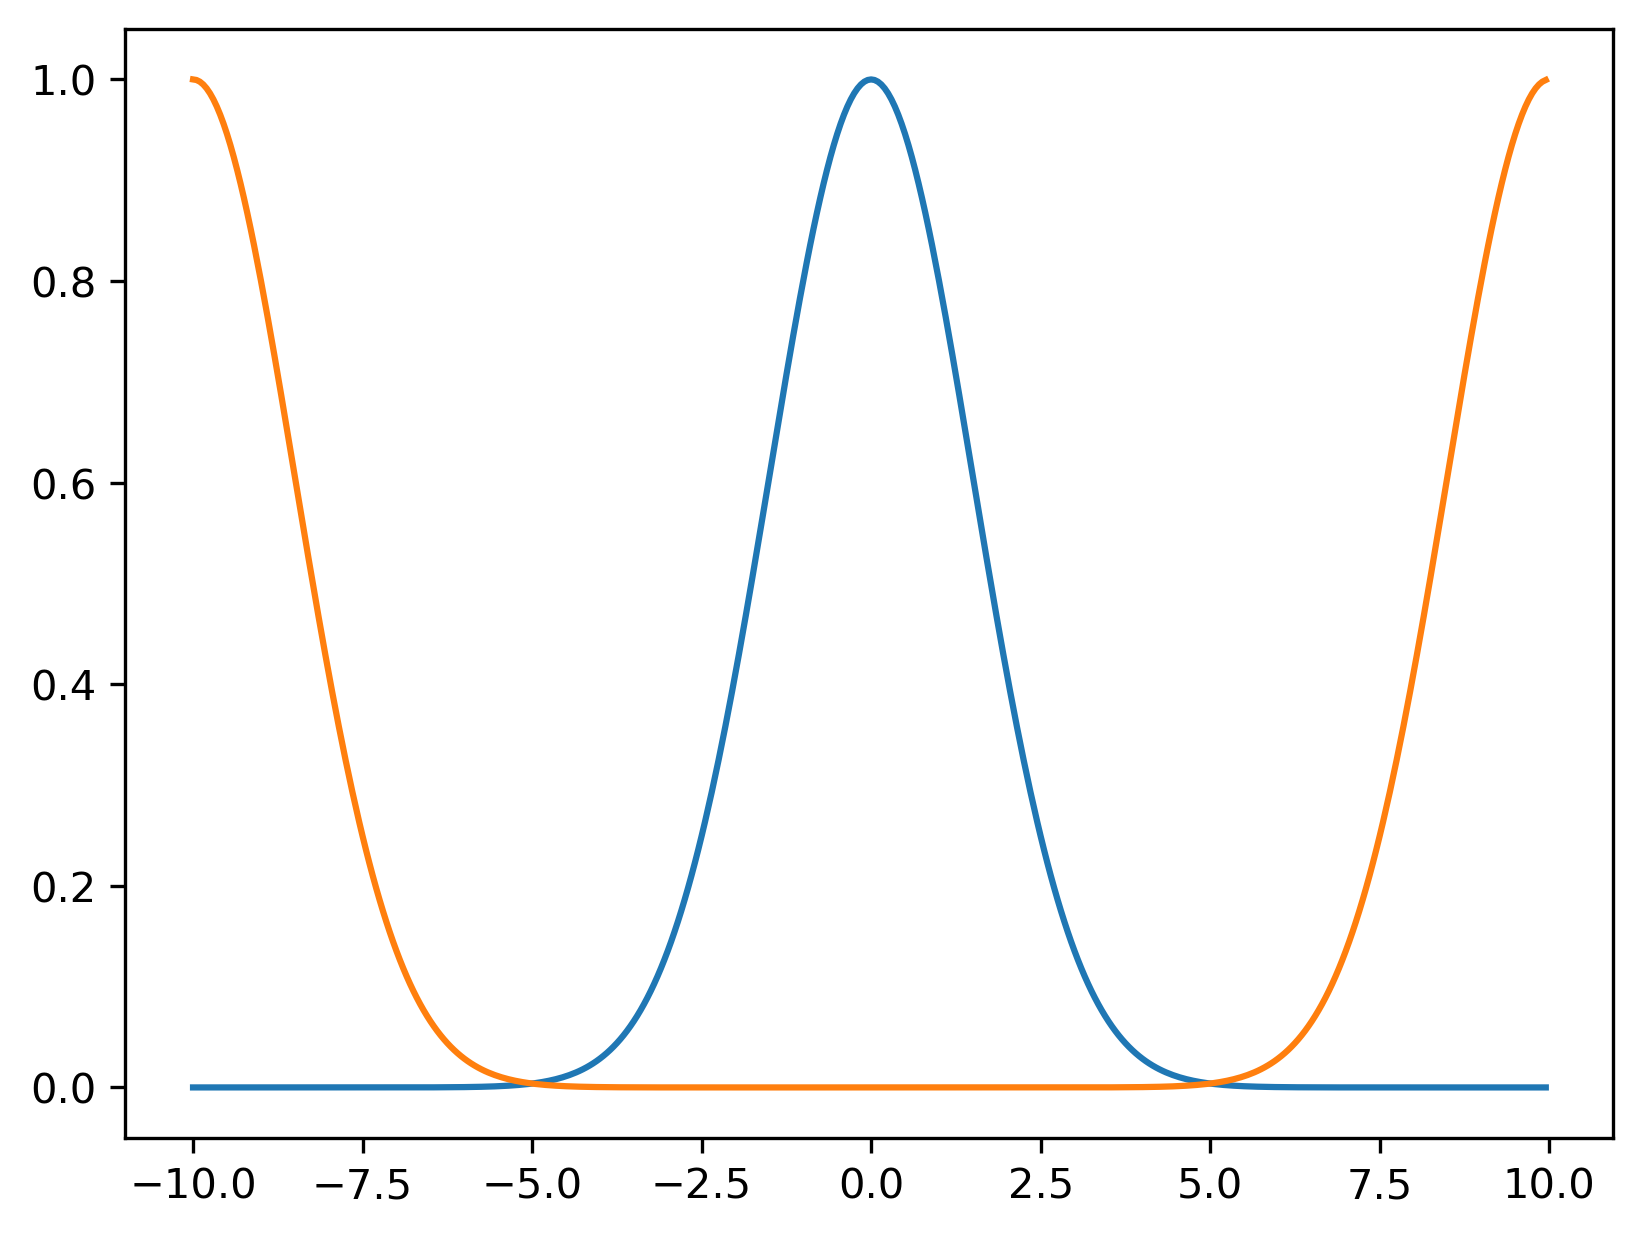
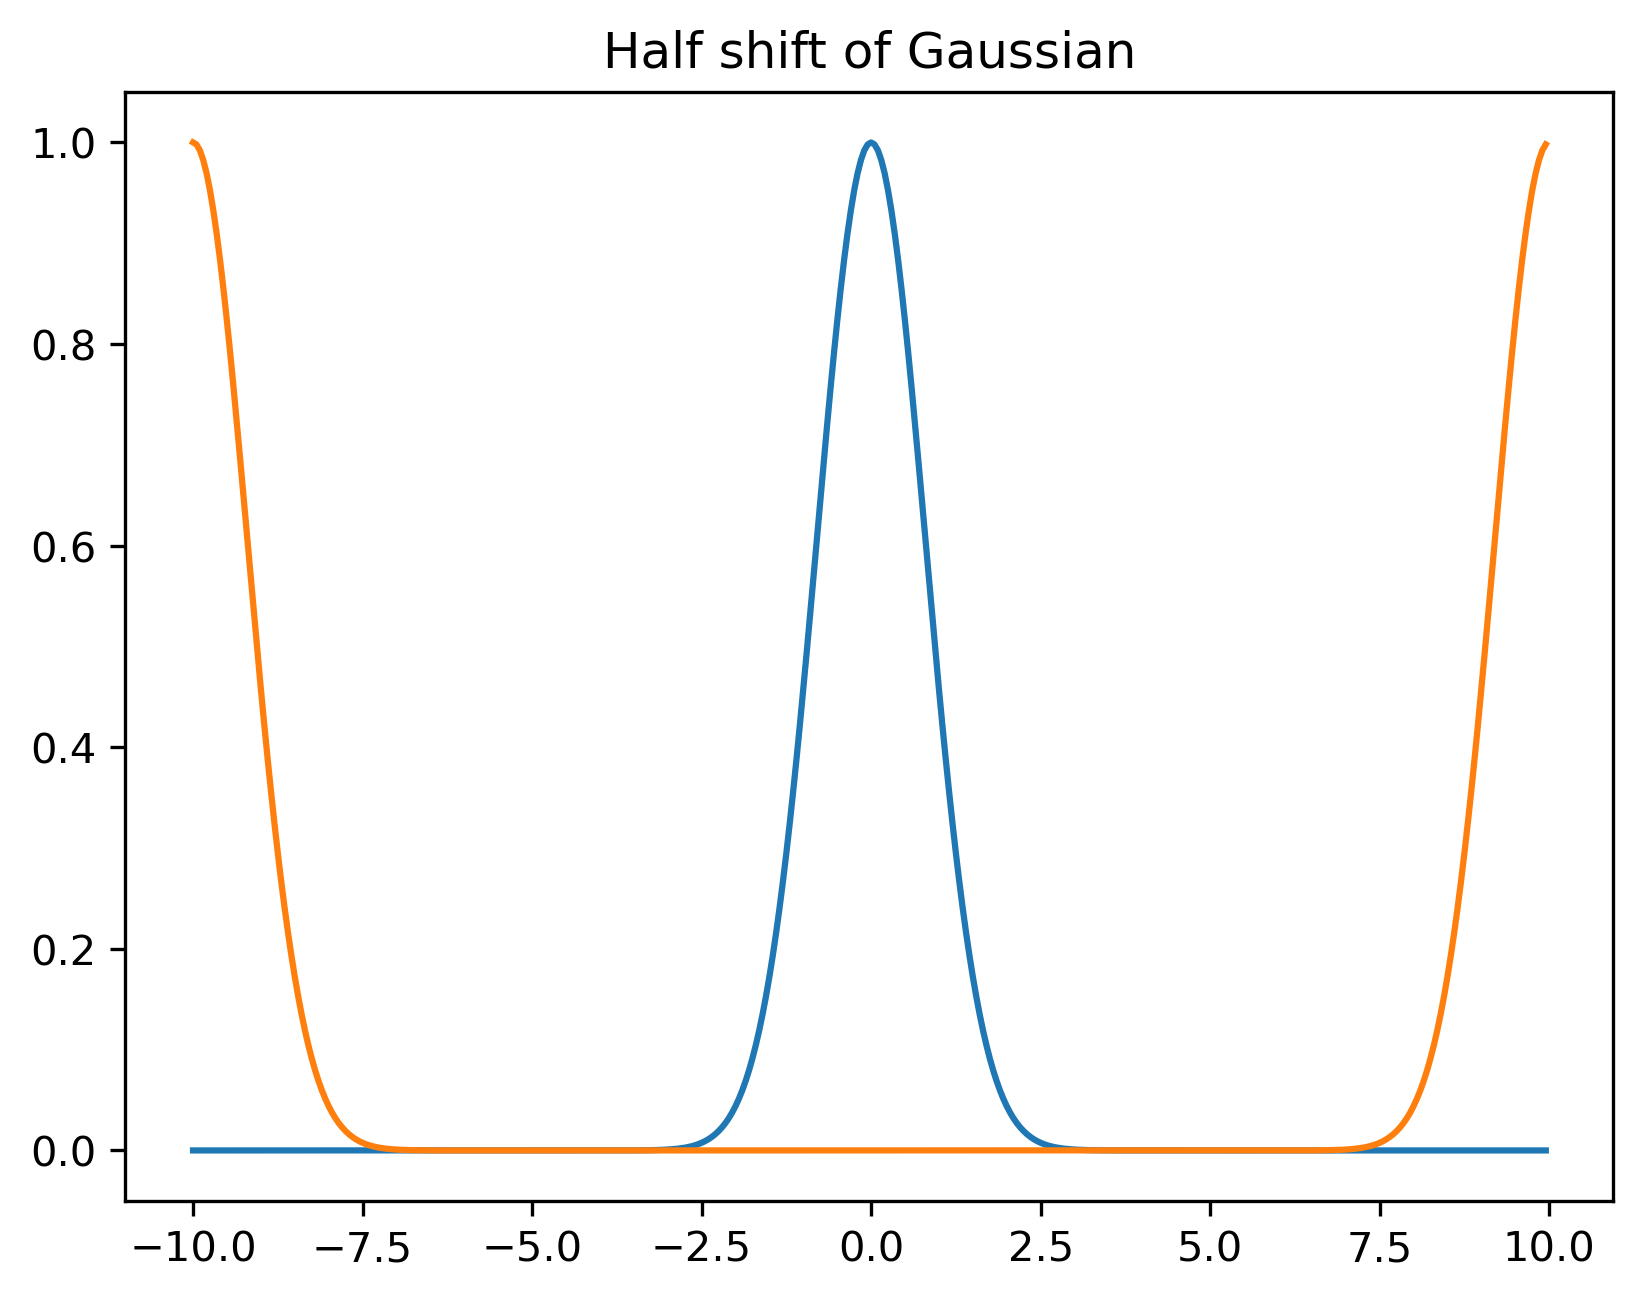
0408

diff --git a/problem_sets/ps5/p51.py b/problem_sets/ps5/p51.py
@@ -1,18 +1,53 @@
 import numpy as np
 from matplotlib import pyplot as plt
 
-def con_shift(array,x):
-    return
+def con_shift(array,x,n =2):
+    shift = len(x) / n
+    kvec = np.arange(len(x))
+    J = np.complex(0, 1)
+    yft_shift = np.fft.fft(y) * np.exp(-2 * np.pi * J * kvec * shift / len(x))
+    y_shift = np.real(np.fft.ifft(yft_shift))
+    return y_shift
 x = np.arange(-10,10,.05)
-y = np.exp(-0.5*x**2/(1.5**2))
-shift = len(x)/2
-kvec = np.arange(len(x))
-J = np.complex(0,1)
-print(len(kvec))
-yft_shift = np.fft.fft(y)*np.exp(-2*np.pi*J*kvec*shift/len(x))
-y_shift = np.real(np.fft.ifft(yft_shift))
+y = np.exp(-0.5*x**2/(0.8**2))
 
-plt.plot(x,y)
-plt.plot(x,y_shift)
-plt.savefig("gauss_shift.png",dpi = 300, bbox_inches = 'tight')
+gauss_shift = con_shift(y,x)
+
+
+# plt.plot(x,y)
+# plt.plot(x,gauss_shift)
+# plt.title('Half shift of Gaussian')
+# plt.savefig("gauss_shift.png",dpi = 300, bbox_inches = 'tight')
+# plt.show()
+
+def correl(a1, a2):
+    a1_ft = np.fft.fft(a1)
+    a2_ft = np.fft.fft(a2)
+    cor = np.fft.ifft(a1_ft*np.conj(a2_ft))
+    return cor
+
+cor = correl(y,y)
+# plt.plot(x,cor)
+# plt.title('Correlation of two Gaussian')
+# plt.savefig("Corr_Gauss.png",dpi = 300, bbox_inches = 'tight')
+# plt.show()
+
+def shift_cor(a1,a2, n):
+    new_a2 = con_shift(a2, x, n)
+    new_a2 = new_a2/new_a2.sum()
+    a1 = a1/a1.sum()
+    output = correl(a1,new_a2)
+    return output,new_a2,a1
+n = 2
+Shift_Gauss, shift_fun , new_y= shift_cor(y,y,n)
+plt.plot(x,shift_fun,'r',label = 'Shifted Gauss')
+plt.plot(x,new_y,'g',label = "Original Gauss")
+plt.plot(x,Shift_Gauss,label = 'Correlated Function')
+plt.title(f'Correlation of Gaussian with shift of {1/n} of its length')
+plt.legend()
+plt.savefig(f'Corr_Shift_{1/n}.png',dpi = 300, bbox_inches = 'tight')
 plt.show()
+
+
+def conv_safe(f,g):
+    return
